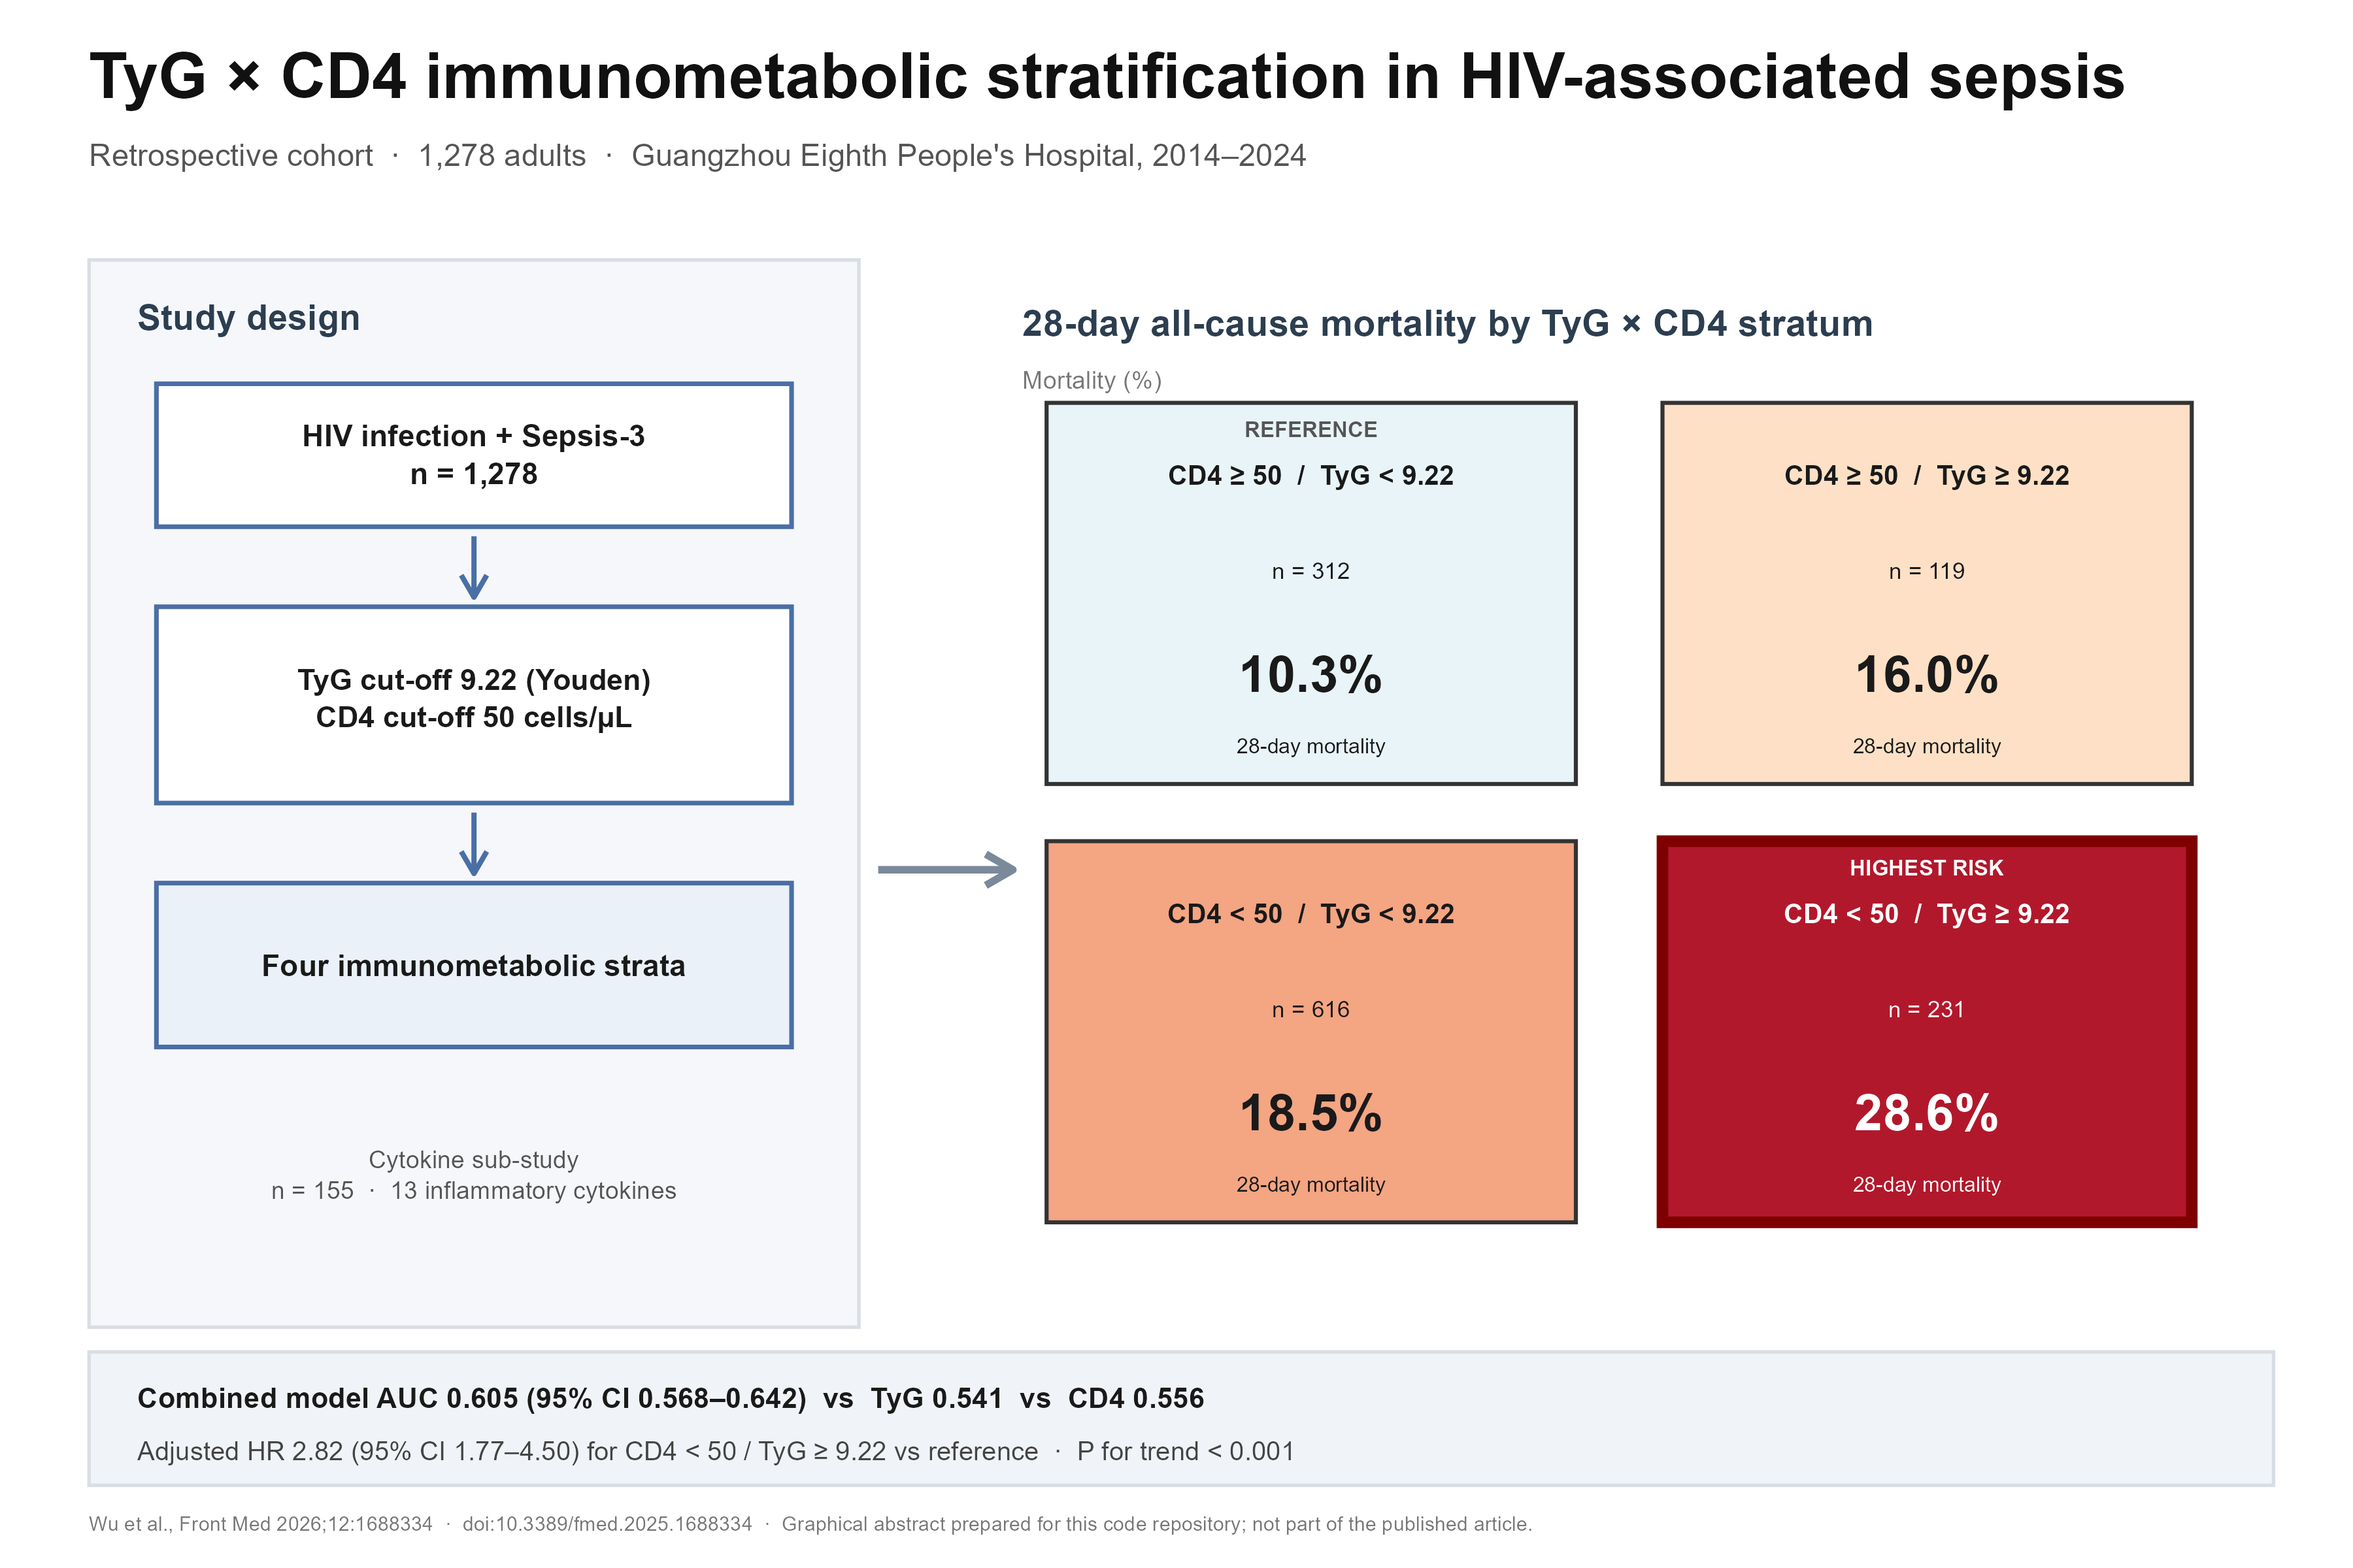
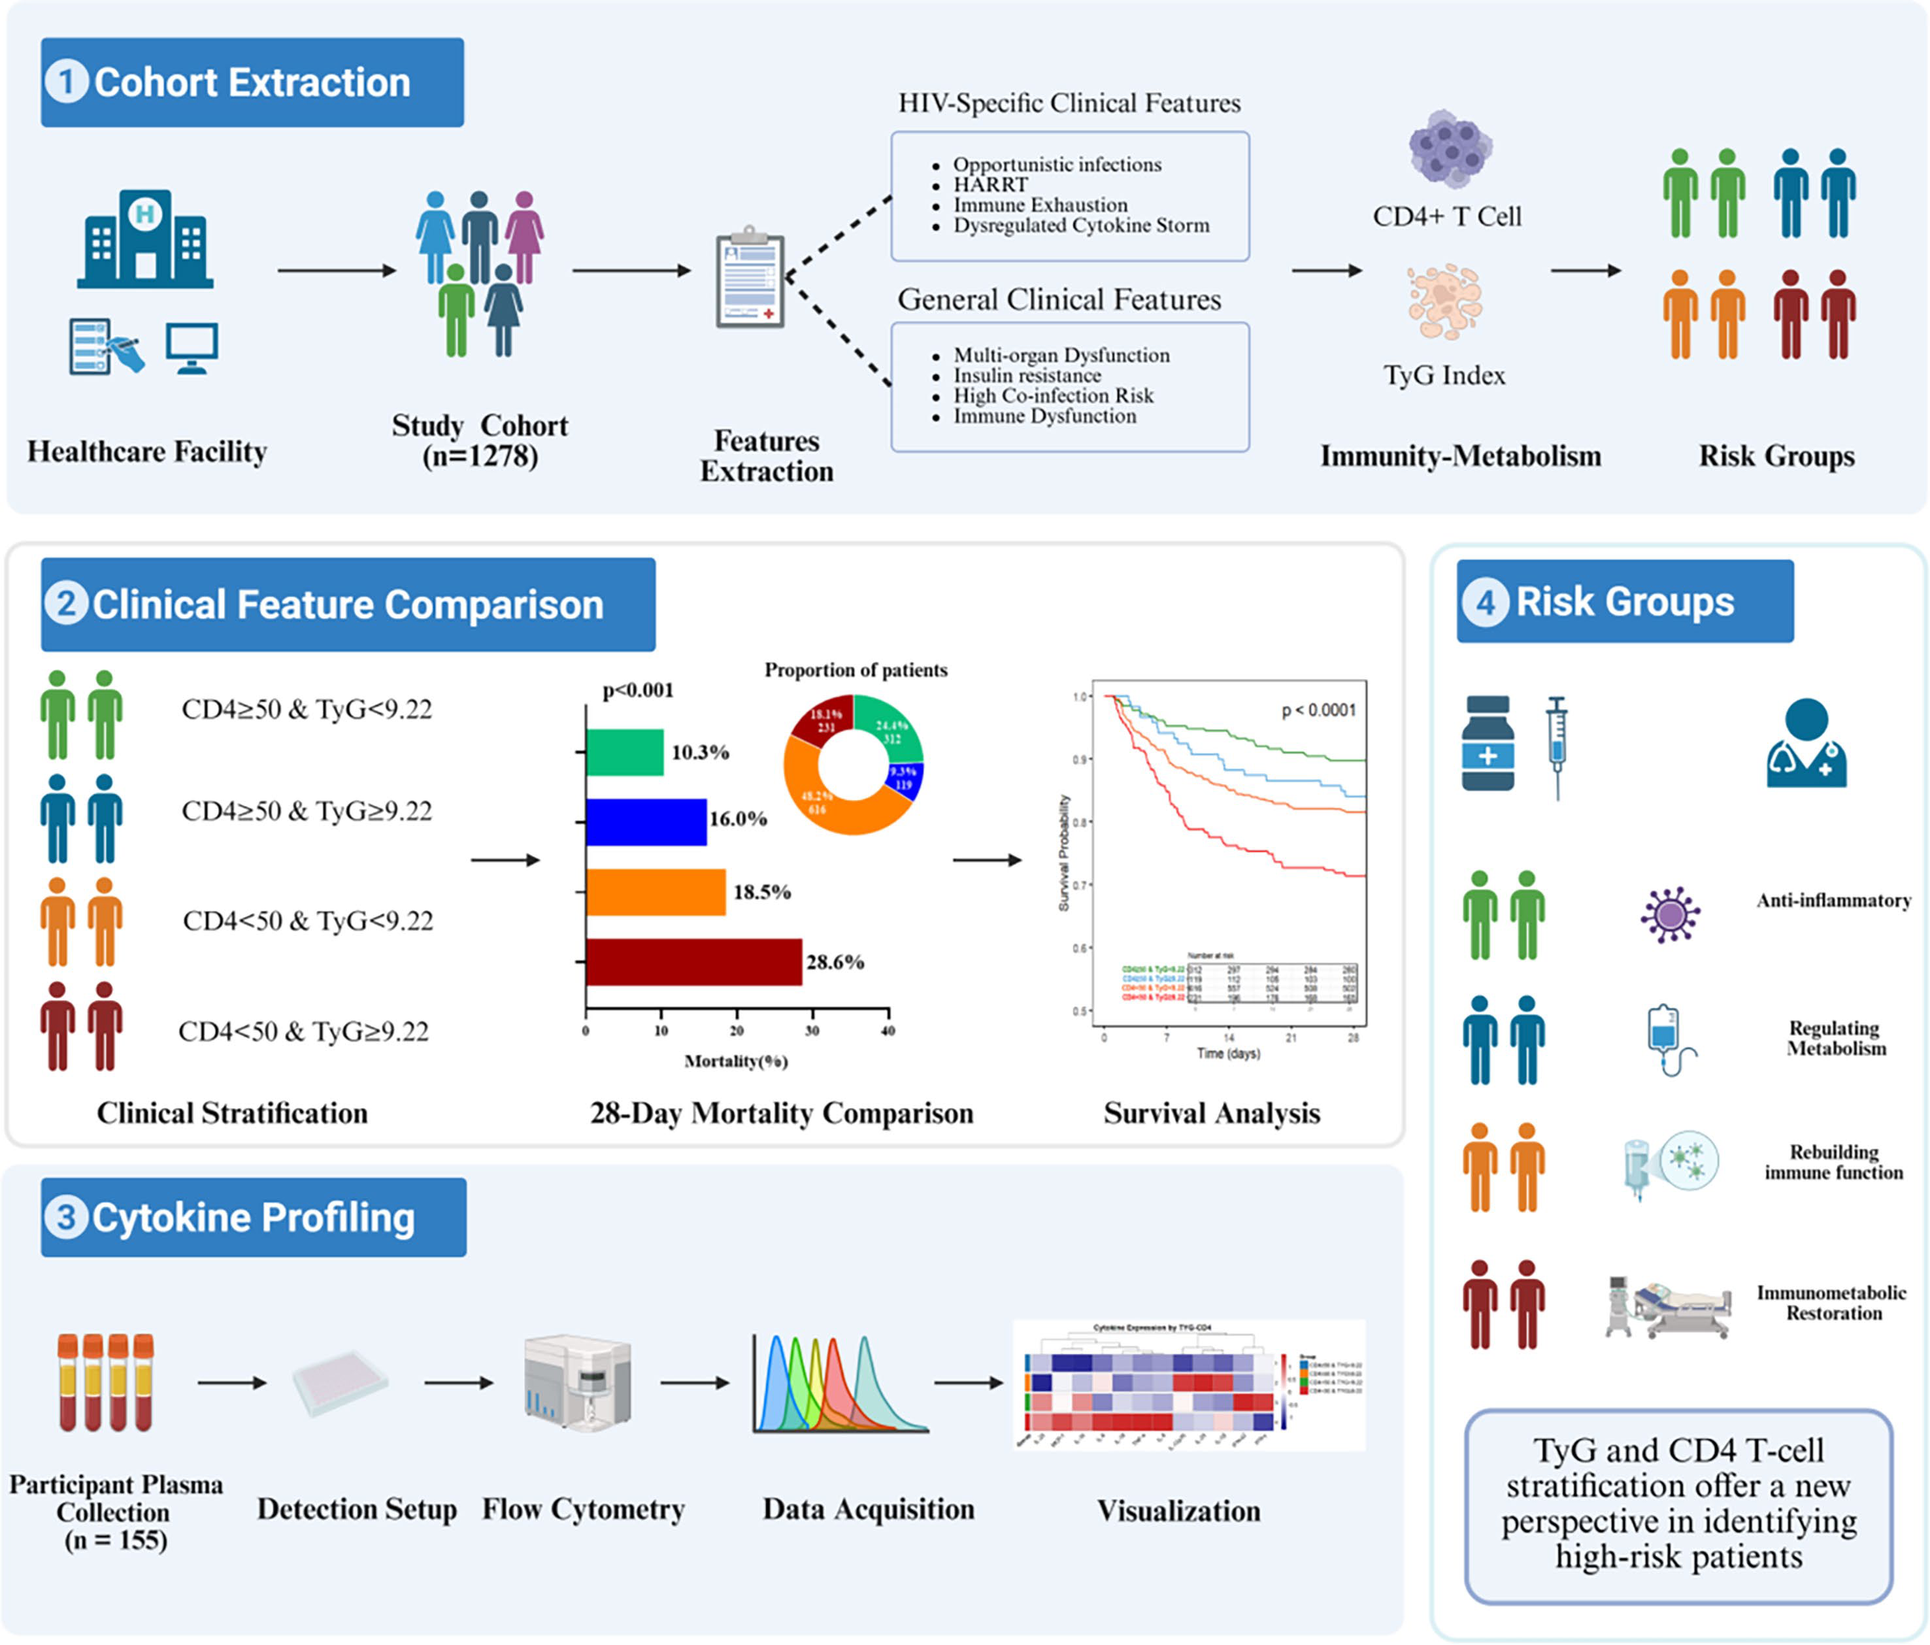
docs: 使用论文官方图形摘要替换重绘版

diff --git a/docs/figures.md b/docs/figures.md
@@ -1,10 +1,10 @@
 # 绘图脚本与图形目录
 
-除 [`figures/graphical-abstract.png`](../figures/graphical-abstract.png)（仓库展示用图形摘要）外，本仓库**不收录运行生成的图片**，只保留绘图代码。所有图形均由脚本在本地运行后生成，输出到工作目录（默认数据目录）或 `output/`。
+除 [`figures/graphical-abstract.png`](../figures/graphical-abstract.png)（论文官方图形摘要）外，本仓库**不收录运行生成的图片**，只保留绘图代码。所有图形均由脚本在本地运行后生成，输出到工作目录（默认数据目录）或 `output/`。
 
 | 图形 | 脚本 | 输出文件 | 数据来源 |
 |---|---|---|---|
-| 图形摘要（Graphical abstract） | `tools/make_graphical_abstract.R` | `figures/graphical-abstract.png` | 论文 Table 1 / Table 3 / Table 4 聚合结果 |
+| 图形摘要（官方 Graphical abstract） | —（论文 PDF 第 2 页，BioRender） | `figures/graphical-abstract.png` | 论文 PDF；Wu et al., Front Med 2026;12:1688334 |
 | TyG × CD4 四格 28 天死亡率热图 | `scripts/03_descriptive/tyg热图绘制.R` | `tyg_cd4_heatmap.png`<br>`tyg_cd4_heatmap.pdf`<br>`tyg_cd4_heatmap_data.csv` | `1300-hiv.xlsx` |
 | CD4 与 28 天死亡的预测概率曲线 | `scripts/03_descriptive/8-绘制线性相关.R` | 屏幕输出（`ggsave` 被注释） | `tyg-1300-hiv.xlsx` |
 | TYGCD4 四组 28 天 KM 曲线（含 risk table） | `scripts/04_survival/6-KM1.R` | 屏幕输出（未保存） | `tyg-1300-hiv.xlsx` |

diff --git a/figures/README.md b/figures/README.md
@@ -2,13 +2,14 @@
 
 ## `graphical-abstract.png`
 
-- **来源**：由 [`tools/make_graphical_abstract.R`](../tools/make_graphical_abstract.R) 生成。
-- **数据**：Wu et al., *Frontiers in Medicine* 2026;12:1688334 的 Table 1 / Table 3 / Table 4 聚合结果。
-- **性质**：为本代码仓库展示而绘制的图形摘要；**原文没有出版社正式图形摘要**，本图不代表期刊官方材料。
-- **复现**：
+- **来源**：论文 PDF 第 2 页的官方 **GRAPHICAL ABSTRACT**（图注标注 “Figure created with BioRender.com”），已按作者授权直接使用。
+- **论文**：Wu et al., *Frontiers in Medicine* 2026;12:1688334，DOI `10.3389/fmed.2025.1688334`（CC BY 4.0）。
+- **性质**：出版社/作者提供的正式图形摘要，不是重绘版。
+- **提取方式**（需自备论文 PDF，PDF 不入库）：
 
   ```bash
-  Rscript tools/make_graphical_abstract.R
+  pdfimages -png -p -f 2 -l 2 "2023210330-吴永昌-SCI论文1.pdf" graphical-abstract
   ```
 
-- **版权**：图片由本仓库作者绘制；论文本身为 CC BY 4.0，代码仓库采用 Academic Non-Commercial License（见根目录 `LICENSE`）。
+  该页只包含这一张整页图片，提取结果为 `2953 × 2517` PNG。
+- **版权**：论文为 CC BY 4.0；本仓库代码采用 Academic Non-Commercial License（见根目录 `LICENSE`），图片版权归论文作者/期刊所有，使用时请引用原文。

diff --git a/docs/notes.md b/docs/notes.md
@@ -126,4 +126,4 @@ Sys.setenv(MIMIC_DB_PASSWORD = "your_password")
 
 ## 6. 校验
 
-整理后已用 R 4.4.0 对 54 个 R 文件（49 个分析脚本 + `00_setup.R` + `packages.R` + `tools/build_docs.R` + `tools/audit_repo.R` + `tools/make_graphical_abstract.R`）做 `parse()` 语法检查，全部通过；`tools/audit_repo.R` 的仓库自检结论为 **PASS**。`parse()` 只验证语法，不代表脚本能在缺少数据/内存对象时直接运行。
+整理后已用 R 4.4.0 对 53 个 R 文件（49 个分析脚本 + `00_setup.R` + `packages.R` + `tools/build_docs.R` + `tools/audit_repo.R`）做 `parse()` 语法检查，全部通过；`tools/audit_repo.R` 的仓库自检结论为 **PASS**。`parse()` 只验证语法，不代表脚本能在缺少数据/内存对象时直接运行。

diff --git a/docs/audit.md b/docs/audit.md
@@ -10,8 +10,8 @@
 | 检查项 | 结果 |
 |---|---|
 | 清单脚本数 vs `scripts/` 脚本数 | 49 / 49 |
-| `parse()` 语法检查 | **54 个 R 文件，0 失败**（49 分析脚本 + `00_setup.R` + `packages.R` + 3 个 `tools/` 脚本） |
-| Git 跟踪文件 | 87 |
+| `parse()` 语法检查 | **53 个 R 文件，0 失败**（49 分析脚本 + `00_setup.R` + `packages.R` + 2 个 `tools/` 脚本） |
+| Git 跟踪文件 | 86 |
 | 数据/文档二进制文件混入（xlsx / csv / RData / rds / pdf / docx / pptx） | **0** |
 | 明文凭据残留（password / token / secret / API key） | **0** |
 | 硬编码 `setwd("...")` | **0**（统一为 `Sys.getenv("TYG_DATA_DIR", ...)`） |

diff --git a/docs/code-review.md b/docs/code-review.md
@@ -75,7 +75,7 @@
 | 检查项 | 结果 |
 |---|---|
 | 清单脚本数 vs `scripts/` 脚本数 | 49 / 49 |
-| `parse()` 语法检查 | 54 个 R 文件，0 失败（49 分析脚本 + `00_setup.R` + `packages.R` + 3 个 `tools/` 脚本） |
+| `parse()` 语法检查 | 53 个 R 文件，0 失败（49 分析脚本 + `00_setup.R` + `packages.R` + 2 个 `tools/` 脚本） |
 | Git 跟踪数据文件 | 0 |
 | 明文凭据 | 0 |
 | 硬编码 `setwd("...")` | 0（统一为 `Sys.getenv("TYG_DATA_DIR", ...)`） |
